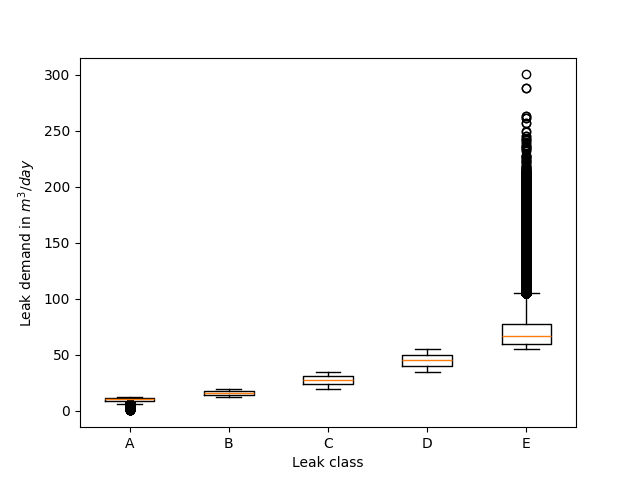
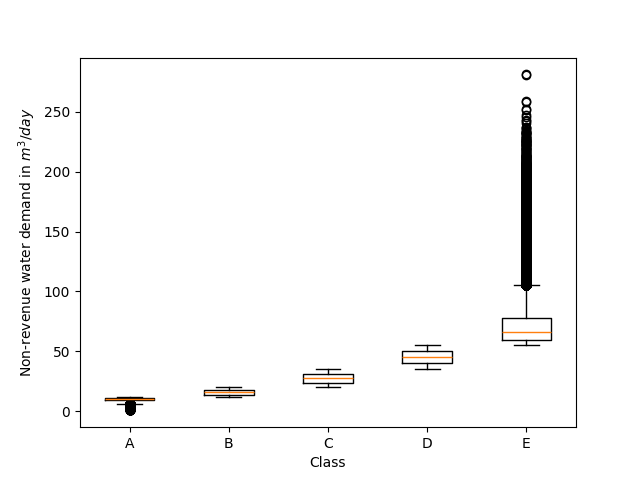
NRW: Add column to leak class table; Add population size to pipe km

diff --git a/docs/problem/system-description/municipalities/nrw.md b/docs/problem/system-description/municipalities/nrw.md
@@ -14,15 +14,21 @@ website_page_authors:
 
 #### Non-Revenue Water Model
 
-Our modelling of non-revenue water relies on the average age of the pipe infrastructure in a municipality. Based on this average age, the municipality gets assigned to one of five possible leak classes (A - E) as follows:
+Our modelling of non-revenue water (NRW) relies on the average age of the pipe infrastructure in a municipality. Based on this average age, the municipality gets assigned to one of five possible classes (A - E) as follows:
 
-| Age in years | Leak class |
-| ------------ | ---------- |
-| 0 - 25       | A          |
-| 25 - 43      | B          |
-| 43 - 54      | C          |
-| 54 - 60      | D          |
-| > 60         | E          |
+| Age in years | Class | Lower and upper bound of NRW demand in m^3/day |
+| ------------ | ------| ---------------------------------------------- |
+| 0 - 25       | A     | (0, 12)                                        |
+| 25 - 43      | B     | (12, 20)                                       |
+| 43 - 54      | C     | (20, 35)                                       |
+| 54 - 60      | D     | (35, 55)                                       |
+| > 60         | E     | (55, inf)                                      |
 
-Each leak class is associated with a distribution of leak demands, from which we sample to generate the total demand, consisting of the normal demand + leak demand. Notably, the leak demand is different for each leak class -- i.e., older systems suffer from more leaks and therefore have a higher leak demand. The distribution of leak demands per leak class is illustrated in the following figure.
+Each class is associated with a distribution of non-revenue water (NRW)demands (e.g., leakages), from which we sample to generate the total demand, consisting of the normal demand + NRW demand. Notably, the NRW demand is different for each class -- i.e., older systems suffer from more leaks and therefore have a higher NRW demand. The distribution of NRW demands per class and km of pipes is illustrated in the following figure.
 ![leak-demands](../../../assets/img/leak_demand.png)
+
+The total number of km of pipes in a given municipality is linked to its population size. Here, we use a linear relationship between the population size and the km of pipes, also illustrated in the following Figure:
+$$
+km\_pipes = 57.7 * population\_in\_10k
+$$
+![pop-pipes](../../../assets/img/pop_to_km.png)
